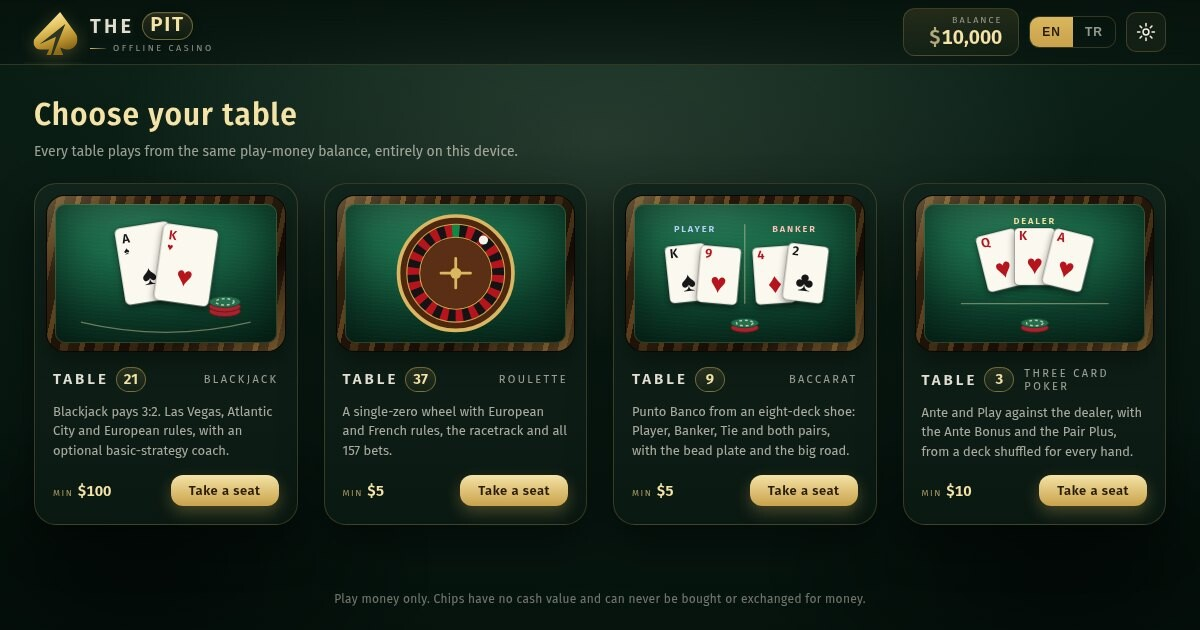
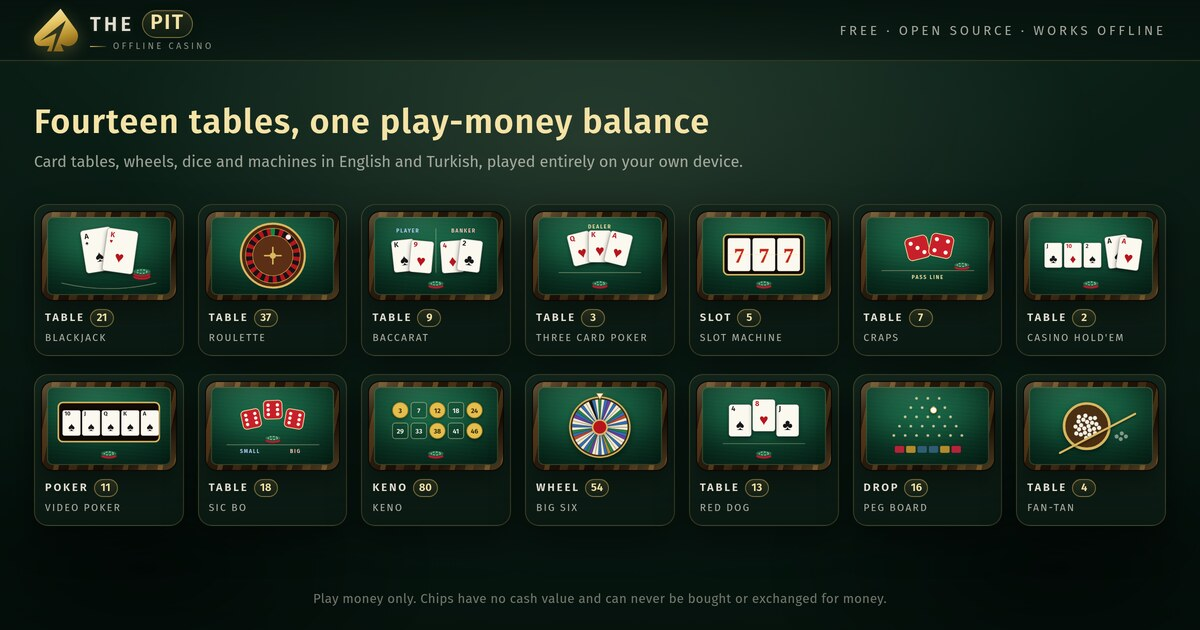
Show all fourteen tables in the link preview
The preview was shot on the first day, when the lobby had four tables, and
link previews and the repository page still showed only those. It is now
drawn from the lobby by tools/generate-social-preview.cjs: every table's felt
and name in two rows of seven, so a new table joins the picture the next
time it runs. The image's alt text in the lobby and the README names all
fourteen.

diff --git a/index.html b/index.html
@@ -22,7 +22,7 @@
   <meta property="og:image" content="https://abel0x.github.io/thepit/assets/social-preview.jpg" />
   <meta property="og:image:width" content="1200" />
   <meta property="og:image:height" content="630" />
-  <meta property="og:image:alt" content="The lobby of ThePit with Table 21 blackjack, Table 37 roulette, Table 9 baccarat and Table 3 Three Card Poker on green felt" />
+  <meta property="og:image:alt" content="The fourteen tables of ThePit on green felt: blackjack, roulette, baccarat, poker, slots, craps, sic bo, keno, the big six wheel, red dog, a peg board and fan-tan" />
   <meta name="twitter:card" content="summary_large_image" />
   <link rel="icon" type="image/svg+xml" href="icon.svg" />
   <link rel="apple-touch-icon" href="apple-touch-icon.png" />

diff --git a/sw.js b/sw.js
@@ -3,7 +3,7 @@
    Free software with ABSOLUTELY NO WARRANTY; see LICENSE for the terms. */
 /* Service worker — caches the lobby and every table for full offline play.
    Only used when the pit is served over http(s); on file:// it is skipped. */
-var CACHE_VERSION = "pit-v39";
+var CACHE_VERSION = "pit-v40";
 var APP_ROOT = new URL("./", self.location.href || self.location.origin + "/");
 var CACHE_PREFIX = "pit-" + encodeURIComponent(APP_ROOT.pathname) + "-";
 var CACHE = CACHE_PREFIX + CACHE_VERSION.slice(4);

diff --git a/README.md b/README.md
@@ -7,7 +7,7 @@ A polished, **fully static & offline** casino of play-money table games. One lob
 
 **[Enter ThePit in your browser](https://abel0x.github.io/thepit/)** · Version 1.0.0 · [GNU AGPL v3](LICENSE) · [![Tests](https://github.com/abel0x/thepit/actions/workflows/tests.yml/badge.svg)](https://github.com/abel0x/thepit/actions/workflows/tests.yml)
 
-![The lobby of ThePit with Table 21, Table 37, Table 9 and Table 3 on green felt](assets/social-preview.jpg)
+![The fourteen tables of ThePit on green felt: blackjack, roulette, baccarat, poker, slots, craps, sic bo, keno, the big six wheel, red dog, a peg board and fan-tan](assets/social-preview.jpg)
 
 ## Play
 
@@ -197,7 +197,7 @@ npm run test:browser
 
 ## Development
 
-There is no build step: edit a file and reload the page. Whenever a change touches a file the pit ships, bump `CACHE_VERSION` in `sw.js` so that installed copies pick up the new version; the update waits until no round is in play. `tools/generate-card-audio.sh` rebuilds the card-table samples in `shared/audio/` and `tools/generate-roulette-audio.sh` the roulette ones, with ffmpeg; `tools/generate-icons.sh` rebuilds the install icons from `icon.svg` with rsvg-convert and ImageMagick, and `node tools/sync-brand-marks.cjs` redraws each table's header mark from its `icon.svg`.
+There is no build step: edit a file and reload the page. Whenever a change touches a file the pit ships, bump `CACHE_VERSION` in `sw.js` so that installed copies pick up the new version; the update waits until no round is in play. `tools/generate-card-audio.sh` rebuilds the card-table samples in `shared/audio/` and `tools/generate-roulette-audio.sh` the roulette ones, with ffmpeg; `tools/generate-icons.sh` rebuilds the install icons from `icon.svg` with rsvg-convert and ImageMagick, `node tools/sync-brand-marks.cjs` redraws each table's header mark from its `icon.svg`, and `node tools/generate-social-preview.cjs` draws `assets/social-preview.jpg` from the lobby with Puppeteer and ImageMagick, so run it after adding a table.
 
 A new table lives in its own folder under `games/`. It loads `shared/css/pit.css` and `shared/css/table.css` before its own stylesheet, `shared/js/pit.js` and `shared/js/i18n.js` first and `shared/js/pwa.js` last, adds its own words with `I18n.define()` (a word the pit already has can never be redefined), keeps its own data under `pit.<table>.*`, and joins `Pit.TABLES`, the lobby and the cache list in `sw.js`.
 
@@ -237,7 +237,7 @@ sw.js                      offline cache for the whole pit (only used over http)
 icon.svg                   app icon (apple-touch-icon.png: iOS home-screen PNG)
 assets/icons/              PNG install icons (192, 512 and a maskable 512)
 assets/social-preview.jpg  1200×630 link-preview image
-tools/                     reproducible local audio, icon and header-mark generators
+tools/                     reproducible local audio, icon, header-mark and preview generators
 tests/                     dependency-free tests for every table, the lobby and the site
 tests/browser/             optional real-browser suites (Puppeteer, development only)
 .github/workflows/         continuous integration for the core suite
